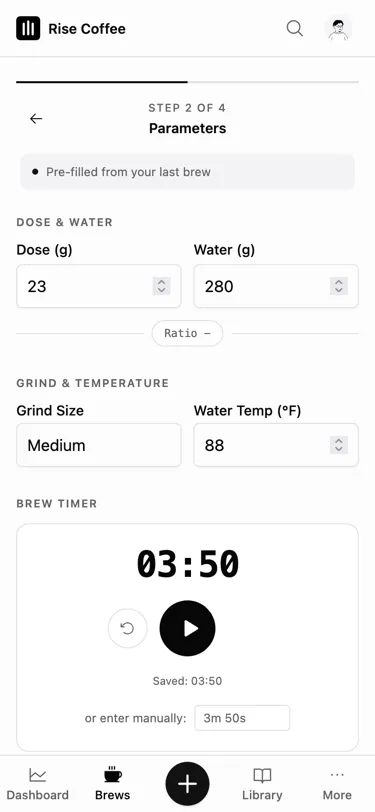
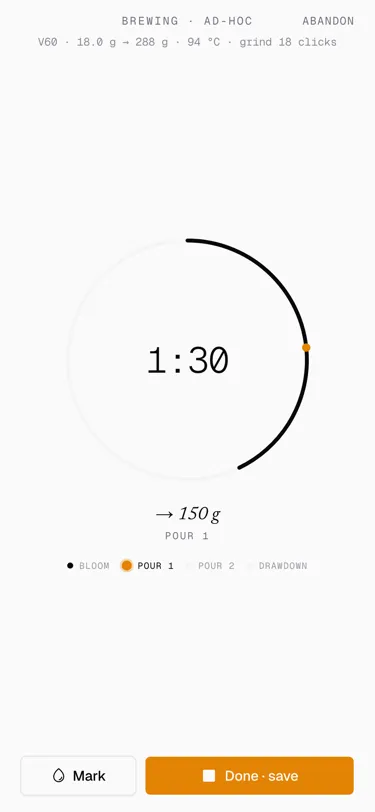
feat: feature Rise Coffee, update launched URLs and redesign screenshots
Swap featured project from Proof Barrel to Rise Coffee. Update
Tamarack to live status with tamarackremodelnw.com domain. Update
Rise Coffee URL to marketing site risecoffee.co and replace
screenshots with redesign: new landing page hero and updated fan
with brew log, brew ledger, and brew detail views.

diff --git a/src/data/projects.ts b/src/data/projects.ts
@@ -46,7 +46,6 @@ export const projects: Array<Project> = [
     ],
     url: "https://proof-barrel-prod.mason-smith.workers.dev",
     github: "https://github.com/solution-ops/proof.barrel",
-    featured: true,
     status: "live",
     images: {
       hero: {
@@ -68,19 +67,20 @@ export const projects: Array<Project> = [
     description:
       "I built this because I wanted a better way to track my coffee brewing. Not a spreadsheet, not a notes app. A real tool that helps you refine your process over time. Every change is tested in its own isolated environment before it goes live.",
     stack: ["React 19", "Hono", "Cloudflare Workers", "Neon Postgres", "Drizzle ORM", "TanStack Router", "Turborepo"],
-    url: "https://app.risecoffee.co",
+    url: "https://risecoffee.co",
     github: "https://github.com/solution-ops/rise.coffee",
+    featured: true,
     status: "live",
     images: {
       hero: {
-        dark: img("rise-coffee", "dashboard-desktop-dark.webp"),
-        light: img("rise-coffee", "dashboard-desktop-light.webp"),
-        alt: "Rise Coffee dashboard with brew history",
+        dark: img("rise-coffee", "landing-desktop-dark.webp"),
+        light: img("rise-coffee", "landing-desktop-light.webp"),
+        alt: "Rise Coffee landing page",
       },
       fan: [
         { src: img("rise-coffee", "brew-log-mobile-dark.webp"), alt: "Brew log on mobile" },
-        { src: img("rise-coffee", "dashboard-mobile-dark.webp"), alt: "Rise Coffee mobile dashboard" },
-        { src: img("rise-coffee", "bean-detail-mobile-light.webp"), alt: "Bean detail view" },
+        { src: img("rise-coffee", "brew-ledger-mobile-dark.webp"), alt: "Brew ledger on mobile" },
+        { src: img("rise-coffee", "brew-detail-mobile-light.webp"), alt: "Brew detail view" },
       ],
     },
   },
@@ -114,9 +114,9 @@ export const projects: Array<Project> = [
     description:
       "A Pacific Northwest contractor needed a site that matched the quality of their craftsmanship. Photography-first, warm tones, and a layout that lets the work breathe. Server-rendered and deployed to the edge. Ready for a CMS whenever they outgrow static content.",
     stack: ["React 19", "TanStack Start", "Tailwind CSS v4", "Cloudflare Pages", "Vite"],
-    url: "https://tamarack-bc7.pages.dev",
+    url: "https://tamarackremodelnw.com",
     github: "https://github.com/solution-ops/tamarack",
-    status: "in-development",
+    status: "live",
     images: {
       hero: {
         dark: img("tamarack", "home-desktop.webp"),

diff --git a/src/routeTree.gen.ts b/src/routeTree.gen.ts
@@ -9,10 +9,10 @@
 // Additionally, you should also exclude this file from your linter and/or formatter to prevent it from being checked or modified.
 
 import { Route as rootRouteImport } from './routes/__root'
+import { Route as ApiContactRouteImport } from './routes/api.contact'
 import { Route as ContactRouteImport } from './routes/contact'
 import { Route as IndexRouteImport } from './routes/index'
 import { Route as ProjectsSlugRouteImport } from './routes/projects.$slug'
-import { Route as ApiContactRouteImport } from './routes/api.contact'
 
 const ContactRoute = ContactRouteImport.update({
   id: '/contact',
@@ -112,8 +112,9 @@ export const routeTree = rootRouteImport
   ._addFileChildren(rootRouteChildren)
   ._addFileTypes<FileRouteTypes>()
 
-import type { getRouter } from './router.tsx'
 import type { createStart } from '@tanstack/react-start'
+import type { getRouter } from './router.tsx'
+
 declare module '@tanstack/react-start' {
   interface Register {
     ssr: true